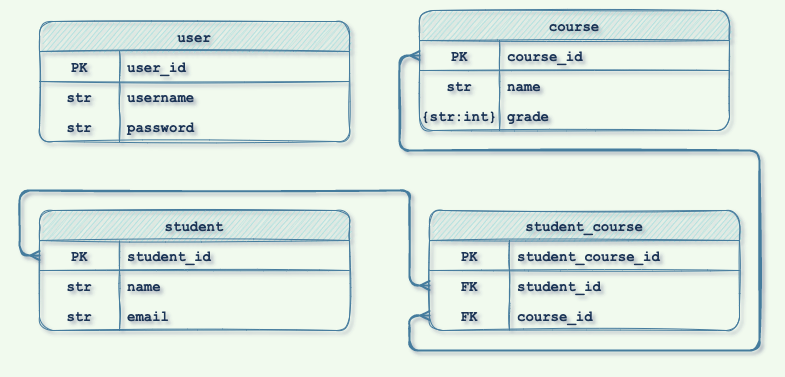
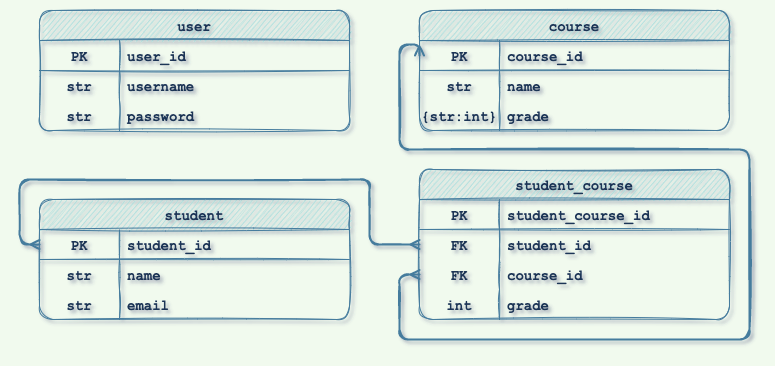
add 'v1', all routes working

diff --git a/v1/controllers/CourseController.js b/v1/controllers/CourseController.js
@@ -1,0 +1,81 @@
+const { Course, Student } = require('../../models');
+
+const GetAllCourses = async (req, res) => {
+  try {
+    const courses = await Course.findAll({
+      include: [
+        {
+          model: Student,
+          as: 'students',
+          through: { attributes: ['grade'] },
+        },
+      ],
+    });
+    res.send(courses);
+  } catch (err) {
+    throw err;
+  }
+};
+
+const GetCourseById = async (req, res) => {
+  try {
+    const courseId = parseInt(req.params.id);
+    const course = await Course.findByPk(courseId, {
+      include: [
+        {
+          model: Student,
+          as: 'students',
+          through: { attributes: ['grade'] },
+        },
+      ],
+    });
+    res.send(course);
+  } catch (err) {
+    throw err;
+  }
+};
+
+const CreateCourse = async (req, res) => {
+  try {
+    const { name } = req.body;
+    const course = await Course.create({
+      name,
+    });
+    res.send(course);
+  } catch (err) {
+    throw err;
+  }
+};
+
+const UpdateCourseById = async (req, res) => {
+  try {
+    const courseId = parseInt(req.params.id);
+    const updatedCourse = await Course.update(req.body, {
+      where: { id: courseId },
+      returning: true,
+    });
+    res.send(updatedCourse);
+  } catch (err) {
+    throw err;
+  }
+};
+
+const DeleteCourseById = async (req, res) => {
+  try {
+    const { id } = req.params;
+    await Course.destroy({
+      where: { id },
+    });
+    res.send({ msg: `Course with id ${id} was deleted` });
+  } catch (err) {
+    throw err;
+  }
+};
+
+module.exports = {
+  GetAllCourses,
+  GetCourseById,
+  CreateCourse,
+  UpdateCourseById,
+  DeleteCourseById,
+};

diff --git a/v1/controllers/StudentController.js b/v1/controllers/StudentController.js
@@ -1,9 +1,35 @@
-const { Student } = require('../models');
+const { Student, Course } = require('../../models');
 
 const GetAllStudents = async (req, res) => {
   try {
-    const students = await Student.findAll();
+    const students = await Student.findAll({
+      include: [
+        {
+          model: Course,
+          as: 'courses',
+          through: { attributes: ['grade'] },
+        },
+      ],
+    });
     res.send(students);
+  } catch (err) {
+    throw err;
+  }
+};
+
+const GetStudentById = async (req, res) => {
+  try {
+    const studentId = parseInt(req.params.id);
+    const student = await Student.findByPk(studentId, {
+      include: [
+        {
+          model: Course,
+          as: 'courses',
+          through: { attributes: ['grade'] },
+        },
+      ],
+    });
+    res.send(student);
   } catch (err) {
     throw err;
   }
@@ -40,9 +66,7 @@ const DeleteStudentById = async (req, res) => {
   try {
     const { id } = req.params;
     await Student.destroy({
-      where: {
-        id,
-      },
+      where: { id },
     });
     res.send({ msg: `Student with id ${id} was deleted` });
   } catch (err) {
@@ -52,6 +76,7 @@ const DeleteStudentById = async (req, res) => {
 
 module.exports = {
   GetAllStudents,
+  GetStudentById,
   CreateStudent,
   UpdateStudentById,
   DeleteStudentById,

diff --git a/v1/controllers/StudentCourseController.js b/v1/controllers/StudentCourseController.js
@@ -1,0 +1,46 @@
+const { StudentCourse } = require('../../models');
+
+const AssignStudentToCourse = async (req, res) => {
+  try {
+    const { studentId, courseId, grade } = req.body;
+    const studentCourse = await StudentCourse.create({
+      student_id: parseInt(studentId),
+      course_id: parseInt(courseId),
+      grade,
+    });
+    res.send(studentCourse);
+  } catch (err) {
+    throw err;
+  }
+};
+
+const GetAllCoursesByStudentId = async (req, res) => {
+  try {
+    const studentId = parseInt(req.params.id);
+    const courses = await StudentCourse.findAll({
+      where: { student_id: studentId },
+    });
+    res.send(courses);
+  } catch (err) {
+    throw err;
+  }
+};
+
+const EditStudentCourseGrade = async (req, res) => {
+  try {
+    const { studentId, courseId } = req.body;
+    const updatedStudentCourse = await StudentCourse.update(req.body, {
+      where: { student_id: studentId, course_id: courseId },
+      returning: true,
+    });
+    res.send(updatedStudentCourse);
+  } catch (err) {
+    throw err;
+  }
+};
+
+module.exports = {
+  AssignStudentToCourse,
+  GetAllCoursesByStudentId,
+  EditStudentCourseGrade,
+};

diff --git a/migrations/20221105175549-add-grade-to-studentcourse-model.js b/migrations/20221105175549-add-grade-to-studentcourse-model.js
@@ -1,0 +1,27 @@
+'use strict';
+
+/** @type {import('sequelize-cli').Migration} */
+module.exports = {
+  async up(queryInterface, Sequelize) {
+    /**
+     * Add altering commands here.
+     *
+     * Example:
+     * await queryInterface.createTable('users', { id: Sequelize.INTEGER });
+     */
+    await queryInterface.addColumn('students_courses', 'grade', {
+      type: Sequelize.INTEGER,
+      allowNull: true,
+    });
+  },
+
+  async down(queryInterface, Sequelize) {
+    /**
+     * Add reverting commands here.
+     *
+     * Example:
+     * await queryInterface.dropTable('users');
+     */
+    await queryInterface.removeColumn('students_courses', 'grade');
+  },
+};

diff --git a/app.js b/app.js
@@ -1,7 +1,7 @@
 const express = require('express');
 const logger = require('morgan');
 const cors = require('cors');
-const router = require('./routes');
+const router = require('./v1/routes');
 const PORT = process.env.PORT || 3001;
 
 const app = express();
@@ -11,7 +11,7 @@ app.use(express.json());
 app.use(express.urlencoded({ extended: true }));
 app.use(logger('dev'));
 
-app.use('/api', router);
+app.use('/api/v1', router);
 
 app.get('/', (req, res) => res.json({ msg: 'Server working' }));
 

diff --git a/v1/routes/index.js b/v1/routes/index.js
@@ -1,8 +1,12 @@
 const router = require('express').Router();
 const UserRouter = require('./UserRouter');
 const StudentRouter = require('./StudentRouter');
+const CourseRouter = require('./CourseRouter');
+const StudentCourseRouter = require('./StudentCourseRouter');
 
 router.use('/users', UserRouter);
 router.use('/students', StudentRouter);
+router.use('/courses', CourseRouter);
+router.use('/student-courses', StudentCourseRouter);
 
 module.exports = router;

diff --git a/v1/routes/CourseRouter.js b/v1/routes/CourseRouter.js
@@ -1,0 +1,10 @@
+const router = require('express').Router();
+const controller = require('../controllers/CourseController');
+
+router.get('/', controller.GetAllCourses);
+router.get('/:id', controller.GetCourseById);
+router.post('/create', controller.CreateCourse);
+router.put('/:id', controller.UpdateCourseById);
+router.delete('/:id', controller.DeleteCourseById);
+
+module.exports = router;

diff --git a/v1/routes/StudentRouter.js b/v1/routes/StudentRouter.js
@@ -2,6 +2,7 @@ const router = require('express').Router();
 const controller = require('../controllers/StudentController');
 
 router.get('/', controller.GetAllStudents);
+router.get('/:id', controller.GetStudentById);
 router.post('/register', controller.CreateStudent);
 router.put('/:id', controller.UpdateStudentById);
 router.delete('/:id', controller.DeleteStudentById);

diff --git a/models/studentcourse.js b/models/studentcourse.js
@@ -29,11 +29,15 @@ module.exports = (sequelize, DataTypes) => {
           key: 'id',
         },
       },
+      grade: {
+        type: DataTypes.INTEGER,
+        allowNull: true,
+      },
     },
     {
       sequelize,
       modelName: 'StudentCourse',
-      tableName: 'student_course',
+      tableName: 'students_courses',
     }
   );
   return StudentCourse;

diff --git a/v1/routes/StudentCourseRouter.js b/v1/routes/StudentCourseRouter.js
@@ -1,0 +1,8 @@
+const router = require('express').Router();
+const controller = require('../controllers/StudentCourseController');
+
+router.get('/:id', controller.GetAllCoursesByStudentId);
+router.put('/grade', controller.EditStudentCourseGrade);
+router.post('/assign', controller.AssignStudentToCourse);
+
+module.exports = router;

diff --git a/models/course.js b/models/course.js
@@ -11,6 +11,7 @@ module.exports = (sequelize, DataTypes) => {
       // define association here
       Course.belongsToMany(models.Student, {
         through: models.StudentCourse,
+        as: 'students',
         foreignKey: 'course_id',
       });
     }

diff --git a/models/student.js b/models/student.js
@@ -10,6 +10,7 @@ module.exports = (sequelize, DataTypes) => {
     static associate(models) {
       Student.belongsToMany(models.Course, {
         through: models.StudentCourse,
+        as: 'courses',
         foreignKey: 'student_id',
       });
     }
